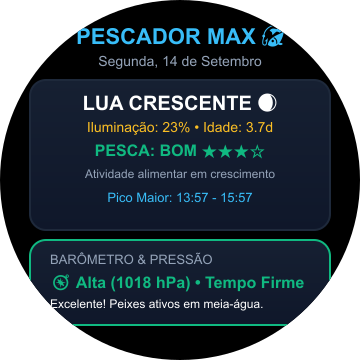
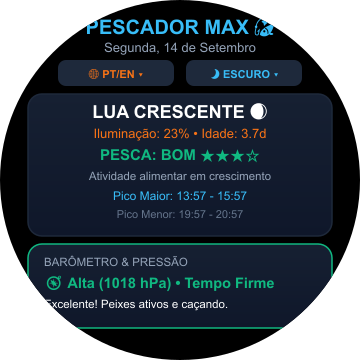
feat: regenerar todas as 16 capturas de tela com a nova aparencia Dark Mode e paleta coral/azul

Changed region(s): [[0.0611, 0.0306, 0.9472, 0.8556], [0.2139, 0.8861, 0.7944, 0.9167], [0.9167, 0.7028, 0.9472, 0.7639]]

diff --git a/.scripts/generate_en_screenshots.js b/.scripts/generate_en_screenshots.js
@@ -29,22 +29,29 @@ const svgRound1 = `
   </defs>
   <g clip-path="url(#cClip1)">
     <rect width="360" height="360" fill="#000000" />
-    <text x="180" y="44" fill="#38bdf8" font-size="22" font-family="Arial, sans-serif" font-weight="bold" text-anchor="middle">ANGLER MAX 🎣</text>
-    <text x="180" y="66" fill="#94a3b8" font-size="14" font-family="Arial, sans-serif" text-anchor="middle">Monday, September 14</text>
+    <text x="180" y="34" fill="#38bdf8" font-size="20" font-family="Arial, sans-serif" font-weight="bold" text-anchor="middle">ANGLER MAX 🎣</text>
+    <text x="180" y="52" fill="#94a3b8" font-size="13" font-family="Arial, sans-serif" text-anchor="middle">Monday, September 14</text>
+
+    <!-- Language and Dark Mode buttons -->
+    <rect x="58" y="60" width="116" height="26" rx="8" fill="#1e293b" />
+    <text x="116" y="78" fill="#f97316" font-size="11" font-family="Arial, sans-serif" font-weight="bold" text-anchor="middle">🌐 PT/EN ▾</text>
+    <rect x="186" y="60" width="116" height="26" rx="8" fill="#1e293b" />
+    <text x="244" y="78" fill="#38bdf8" font-size="11" font-family="Arial, sans-serif" font-weight="bold" text-anchor="middle">🌙 DARK ▾</text>
 
     <!-- Card 1: Lunar & Solunar -->
-    <rect x="30" y="80" width="300" height="150" rx="16" fill="url(#gCard)" stroke="#1e293b" stroke-width="2" />
-    <text x="180" y="110" fill="#ffffff" font-size="20" font-family="Arial, sans-serif" font-weight="bold" text-anchor="middle">WAXING CRESCENT 🌒</text>
-    <text x="180" y="132" fill="#fbbf24" font-size="14" font-family="Arial, sans-serif" text-anchor="middle">Illumination: 23% • Age: 3.7d</text>
-    <text x="180" y="156" fill="#10b981" font-size="16" font-family="Arial, sans-serif" font-weight="bold" text-anchor="middle">FISHING: GOOD ★★★☆</text>
-    <text x="180" y="178" fill="#94a3b8" font-size="12" font-family="Arial, sans-serif" text-anchor="middle">Feeding activity rising for active fish</text>
-    <text x="180" y="202" fill="#38bdf8" font-size="13" font-family="Arial, sans-serif" text-anchor="middle">Major Peak: 01:57 PM - 03:57 PM</text>
+    <rect x="28" y="94" width="304" height="142" rx="14" fill="url(#gCard)" stroke="#1e293b" stroke-width="1.5" />
+    <text x="180" y="118" fill="#ffffff" font-size="18" font-family="Arial, sans-serif" font-weight="bold" text-anchor="middle">WAXING CRESCENT 🌒</text>
+    <text x="180" y="138" fill="#f97316" font-size="13" font-family="Arial, sans-serif" text-anchor="middle">Illumination: 23% • Age: 3.7d</text>
+    <text x="180" y="160" fill="#10b981" font-size="15" font-family="Arial, sans-serif" font-weight="bold" text-anchor="middle">FISHING: GOOD ★★★☆</text>
+    <text x="180" y="180" fill="#94a3b8" font-size="11.5" font-family="Arial, sans-serif" text-anchor="middle">Feeding activity rising for active fish</text>
+    <text x="180" y="200" fill="#38bdf8" font-size="12" font-family="Arial, sans-serif" text-anchor="middle">Major Peak: 01:57 PM - 03:57 PM</text>
+    <text x="180" y="218" fill="#64748b" font-size="11" font-family="Arial, sans-serif" text-anchor="middle">Minor Peak: 07:57 PM - 08:57 PM</text>
 
     <!-- Card 2: Barometer -->
-    <rect x="30" y="240" width="300" height="85" rx="16" fill="url(#gCard)" stroke="#10b981" stroke-width="2" />
-    <text x="50" y="264" fill="#94a3b8" font-size="13" font-family="Arial, sans-serif">BAROMETER &amp; PRESSURE</text>
-    <text x="50" y="288" fill="#10b981" font-size="16" font-family="Arial, sans-serif" font-weight="bold">🧭 High (1018 hPa) • Fair Weather</text>
-    <text x="50" y="308" fill="#ffffff" font-size="12" font-family="Arial, sans-serif">Excellent! Fish actively feeding near surface.</text>
+    <rect x="28" y="244" width="304" height="84" rx="14" fill="url(#gCard)" stroke="#10b981" stroke-width="1.5" />
+    <text x="44" y="266" fill="#94a3b8" font-size="11.5" font-family="Arial, sans-serif">BAROMETER &amp; PRESSURE</text>
+    <text x="44" y="288" fill="#10b981" font-size="14.5" font-family="Arial, sans-serif" font-weight="bold">🧭 High (1018 hPa) • Fair Weather</text>
+    <text x="44" y="308" fill="#ffffff" font-size="11.5" font-family="Arial, sans-serif">Excellent! Fish actively feeding near surface.</text>
   </g>
 </svg>
 `;
@@ -62,19 +69,19 @@ const svgRound2 = `
     <!-- Day 1 -->
     <rect x="30" y="68" width="300" height="78" rx="14" fill="#162438" stroke="#38bdf8" stroke-width="2" />
     <text x="45" y="90" fill="#38bdf8" font-size="15" font-family="Arial, sans-serif" font-weight="bold">Mon, Sep 14 [TODAY]</text>
-    <text x="45" y="110" fill="#fbbf24" font-size="13" font-family="Arial, sans-serif">Crescent (23%) • Fishing: GOOD ★★★☆</text>
+    <text x="45" y="110" fill="#f97316" font-size="13" font-family="Arial, sans-serif">Crescent (23%) • Fishing: GOOD ★★★☆</text>
     <text x="45" y="130" fill="#94a3b8" font-size="12" font-family="Arial, sans-serif">Major Peak: 01:57 PM - 03:57 PM</text>
 
     <!-- Day 2 -->
     <rect x="30" y="156" width="300" height="78" rx="14" fill="#0f172a" stroke="#1e293b" stroke-width="2" />
     <text x="45" y="178" fill="#ffffff" font-size="15" font-family="Arial, sans-serif" font-weight="bold">Tue, Sep 15</text>
-    <text x="45" y="198" fill="#fbbf24" font-size="13" font-family="Arial, sans-serif">Crescent (32%) • Fishing: GOOD ★★★☆</text>
+    <text x="45" y="198" fill="#f97316" font-size="13" font-family="Arial, sans-serif">Crescent (32%) • Fishing: GOOD ★★★☆</text>
     <text x="45" y="218" fill="#94a3b8" font-size="12" font-family="Arial, sans-serif">Major Peak: 02:45 PM - 04:45 PM</text>
 
     <!-- Day 3 -->
     <rect x="30" y="244" width="300" height="78" rx="14" fill="#0f172a" stroke="#1e293b" stroke-width="2" />
     <text x="45" y="266" fill="#ffffff" font-size="15" font-family="Arial, sans-serif" font-weight="bold">Wed, Sep 16</text>
-    <text x="45" y="286" fill="#fbbf24" font-size="13" font-family="Arial, sans-serif">First Quarter (42%) • Fishing: FAIR ★★☆☆</text>
+    <text x="45" y="286" fill="#f97316" font-size="13" font-family="Arial, sans-serif">First Quarter (42%) • Fishing: FAIR ★★☆☆</text>
     <text x="45" y="306" fill="#94a3b8" font-size="12" font-family="Arial, sans-serif">Major Peak: 03:30 PM - 05:30 PM</text>
   </g>
 </svg>
@@ -102,7 +109,7 @@ const svgRound3 = `
 
     <!-- Protected Species -->
     <rect x="30" y="226" width="300" height="85" rx="14" fill="#0f172a" stroke="#1e293b" stroke-width="2" />
-    <text x="45" y="248" fill="#fbbf24" font-size="14" font-family="Arial, sans-serif" font-weight="bold">🐟 PROTECTED SPECIES</text>
+    <text x="45" y="248" fill="#f97316" font-size="14" font-family="Arial, sans-serif" font-weight="bold">🐟 PROTECTED SPECIES</text>
     <text x="45" y="272" fill="#94a3b8" font-size="12" font-family="Arial, sans-serif">Golden Dorado, Sorubim Catfish, Jau, Pacu</text>
     <text x="45" y="292" fill="#38bdf8" font-size="12" font-family="Arial, sans-serif">Catch-and-release open for bass in reservoirs.</text>
   </g>
@@ -149,24 +156,30 @@ const svgRound4 = `
 const svgSquare1 = `
 <svg width="360" height="360" viewBox="0 0 360 360" xmlns="http://www.w3.org/2000/svg">
   <rect width="360" height="360" rx="16" fill="#000000" />
-  <text x="180" y="32" fill="#38bdf8" font-size="20" font-family="Arial, sans-serif" font-weight="bold" text-anchor="middle">ANGLER MAX 🎣</text>
-  <text x="180" y="52" fill="#94a3b8" font-size="13" font-family="Arial, sans-serif" text-anchor="middle">Monday, September 14</text>
+  <text x="180" y="30" fill="#38bdf8" font-size="20" font-family="Arial, sans-serif" font-weight="bold" text-anchor="middle">ANGLER MAX 🎣</text>
+  <text x="180" y="48" fill="#94a3b8" font-size="12.5" font-family="Arial, sans-serif" text-anchor="middle">Monday, September 14</text>
+
+  <!-- Language and Dark Mode buttons -->
+  <rect x="52" y="56" width="122" height="26" rx="8" fill="#1e293b" />
+  <text x="113" y="74" fill="#f97316" font-size="11" font-family="Arial, sans-serif" font-weight="bold" text-anchor="middle">🌐 PT/EN ▾</text>
+  <rect x="186" y="56" width="122" height="26" rx="8" fill="#1e293b" />
+  <text x="247" y="74" fill="#38bdf8" font-size="11" font-family="Arial, sans-serif" font-weight="bold" text-anchor="middle">🌙 DARK ▾</text>
 
   <!-- Lunar Card -->
-  <rect x="14" y="62" width="332" height="175" rx="14" fill="#162032" stroke="#1e293b" stroke-width="2" />
-  <text x="180" y="90" fill="#ffffff" font-size="20" font-family="Arial, sans-serif" font-weight="bold" text-anchor="middle">WAXING CRESCENT 🌒</text>
-  <text x="180" y="112" fill="#fbbf24" font-size="14" font-family="Arial, sans-serif" text-anchor="middle">Illumination: 23% • Age: 3.7d</text>
-  <text x="180" y="136" fill="#10b981" font-size="16" font-family="Arial, sans-serif" font-weight="bold" text-anchor="middle">FISHING: GOOD ★★★☆</text>
-  <text x="180" y="158" fill="#94a3b8" font-size="12" font-family="Arial, sans-serif" text-anchor="middle">Feeding activity rising for active game fish</text>
-  <text x="180" y="180" fill="#38bdf8" font-size="13" font-family="Arial, sans-serif" text-anchor="middle">Major Peak: 01:57 PM - 03:57 PM</text>
-  <text x="180" y="200" fill="#64748b" font-size="12" font-family="Arial, sans-serif" text-anchor="middle">Minor Peak: 07:57 PM - 08:57 PM</text>
+  <rect x="14" y="90" width="332" height="152" rx="14" fill="#162032" stroke="#1e293b" stroke-width="1.5" />
+  <text x="180" y="116" fill="#ffffff" font-size="19" font-family="Arial, sans-serif" font-weight="bold" text-anchor="middle">WAXING CRESCENT 🌒</text>
+  <text x="180" y="136" fill="#f97316" font-size="13" font-family="Arial, sans-serif" text-anchor="middle">Illumination: 23% • Age: 3.7d</text>
+  <text x="180" y="158" fill="#10b981" font-size="15" font-family="Arial, sans-serif" font-weight="bold" text-anchor="middle">FISHING: GOOD ★★★☆</text>
+  <text x="180" y="178" fill="#94a3b8" font-size="11.5" font-family="Arial, sans-serif" text-anchor="middle">Feeding activity rising for active game fish</text>
+  <text x="180" y="198" fill="#38bdf8" font-size="12.5" font-family="Arial, sans-serif" text-anchor="middle">Major Peak: 01:57 PM - 03:57 PM</text>
+  <text x="180" y="216" fill="#64748b" font-size="11.5" font-family="Arial, sans-serif" text-anchor="middle">Minor Peak: 07:57 PM - 08:57 PM</text>
 
   <!-- Barometer Card -->
-  <rect x="14" y="246" width="332" height="100" rx="14" fill="#162032" stroke="#10b981" stroke-width="2" />
-  <text x="30" y="270" fill="#94a3b8" font-size="12" font-family="Arial, sans-serif">BAROMETER &amp; PRESSURE</text>
-  <text x="30" y="294" fill="#10b981" font-size="16" font-family="Arial, sans-serif" font-weight="bold">🧭 High (1018 hPa) • Fair Weather</text>
-  <text x="30" y="316" fill="#ffffff" font-size="12" font-family="Arial, sans-serif">Excellent! Fish actively feeding near surface and mid-water.</text>
-  <text x="30" y="334" fill="#94a3b8" font-size="11" font-family="Arial, sans-serif">Tip: Great for topwater lures, poppers and jerkbaits.</text>
+  <rect x="14" y="250" width="332" height="96" rx="14" fill="#162032" stroke="#10b981" stroke-width="1.5" />
+  <text x="28" y="272" fill="#94a3b8" font-size="11.5" font-family="Arial, sans-serif">BAROMETER &amp; PRESSURE</text>
+  <text x="28" y="294" fill="#10b981" font-size="15" font-family="Arial, sans-serif" font-weight="bold">🧭 High (1018 hPa) • Fair Weather</text>
+  <text x="28" y="314" fill="#ffffff" font-size="11.5" font-family="Arial, sans-serif">Excellent! Fish actively feeding near surface and mid-water.</text>
+  <text x="28" y="332" fill="#94a3b8" font-size="11" font-family="Arial, sans-serif">Tip: Great for topwater lures, poppers and jerkbaits.</text>
 </svg>
 `;
 
@@ -181,21 +194,21 @@ const svgSquare2 = `
   <!-- Day 1 -->
   <rect x="14" y="52" width="332" height="90" rx="12" fill="#162438" stroke="#38bdf8" stroke-width="2" />
   <text x="28" y="74" fill="#38bdf8" font-size="15" font-family="Arial, sans-serif" font-weight="bold">Monday, Sep 14 [TODAY]</text>
-  <text x="28" y="96" fill="#fbbf24" font-size="13" font-family="Arial, sans-serif">Waxing Crescent • 23% Illumination</text>
+  <text x="28" y="96" fill="#f97316" font-size="13" font-family="Arial, sans-serif">Waxing Crescent • 23% Illumination</text>
   <text x="28" y="116" fill="#10b981" font-size="13" font-family="Arial, sans-serif" font-weight="bold">Fishing: GOOD ★★★☆</text>
   <text x="28" y="134" fill="#94a3b8" font-size="12" font-family="Arial, sans-serif">Major: 01:57 PM - 03:57 PM | Minor: 07:57 PM - 08:57 PM</text>
 
   <!-- Day 2 -->
   <rect x="14" y="152" width="332" height="90" rx="12" fill="#0f172a" stroke="#1e293b" stroke-width="2" />
   <text x="28" y="174" fill="#ffffff" font-size="15" font-family="Arial, sans-serif" font-weight="bold">Tuesday, Sep 15</text>
-  <text x="28" y="196" fill="#fbbf24" font-size="13" font-family="Arial, sans-serif">Waxing Crescent • 32% Illumination</text>
+  <text x="28" y="196" fill="#f97316" font-size="13" font-family="Arial, sans-serif">Waxing Crescent • 32% Illumination</text>
   <text x="28" y="216" fill="#10b981" font-size="13" font-family="Arial, sans-serif" font-weight="bold">Fishing: GOOD ★★★☆</text>
   <text x="28" y="234" fill="#94a3b8" font-size="12" font-family="Arial, sans-serif">Major: 02:45 PM - 04:45 PM | Minor: 08:45 PM - 09:45 PM</text>
 
   <!-- Day 3 -->
   <rect x="14" y="252" width="332" height="90" rx="12" fill="#0f172a" stroke="#1e293b" stroke-width="2" />
   <text x="28" y="274" fill="#ffffff" font-size="15" font-family="Arial, sans-serif" font-weight="bold">Wednesday, Sep 16</text>
-  <text x="28" y="296" fill="#fbbf24" font-size="13" font-family="Arial, sans-serif">First Quarter • 42% Illumination</text>
+  <text x="28" y="296" fill="#f97316" font-size="13" font-family="Arial, sans-serif">First Quarter • 42% Illumination</text>
   <text x="28" y="316" fill="#f59e0b" font-size="13" font-family="Arial, sans-serif" font-weight="bold">Fishing: FAIR ★★☆☆</text>
   <text x="28" y="334" fill="#94a3b8" font-size="12" font-family="Arial, sans-serif">Major: 03:30 PM - 05:30 PM | Minor: 09:30 PM - 10:30 PM</text>
 </svg>
@@ -219,7 +232,7 @@ const svgSquare3 = `
   <text x="28" y="190" fill="#64748b" font-size="11" font-family="Arial, sans-serif">Paraná, Tietê, Paranapanema and Grande rivers</text>
 
   <rect x="14" y="210" width="332" height="135" rx="12" fill="#0f172a" stroke="#1e293b" stroke-width="2" />
-  <text x="28" y="234" fill="#fbbf24" font-size="14" font-family="Arial, sans-serif" font-weight="bold">🐟 PROTECTED NATIVE SPECIES</text>
+  <text x="28" y="234" fill="#f97316" font-size="14" font-family="Arial, sans-serif" font-weight="bold">🐟 PROTECTED NATIVE SPECIES</text>
   <text x="28" y="258" fill="#ffffff" font-size="12" font-family="Arial, sans-serif">Golden Dorado, Sorubim Catfish, Jau, Curimbata, Pacu</text>
   <text x="28" y="282" fill="#10b981" font-size="12" font-family="Arial, sans-serif">✔ Sport catch-and-release allowed for bass in reservoirs.</text>
   <text x="28" y="304" fill="#ef4444" font-size="11" font-family="Arial, sans-serif">✖ Commercial nets, trotlines and dam fishing strictly prohibited.</text>
@@ -250,7 +263,7 @@ const svgSquare4 = `
   <text x="28" y="214" fill="#38bdf8" font-size="15" font-family="Arial, sans-serif" font-weight="bold">BAIT GUIDE BY SPOT</text>
   
   <rect x="14" y="226" width="332" height="118" rx="12" fill="#0f172a" stroke="#1e293b" stroke-width="2" />
-  <text x="28" y="250" fill="#fbbf24" font-size="14" font-family="Arial, sans-serif" font-weight="bold">🎣 Lakes &amp; Reservoirs</text>
+  <text x="28" y="250" fill="#f97316" font-size="14" font-family="Arial, sans-serif" font-weight="bold">🎣 Lakes &amp; Reservoirs</text>
   <text x="28" y="272" fill="#ffffff" font-size="12" font-family="Arial, sans-serif">Target: Bass, Peacock Bass, Tilapia, Pike</text>
   <text x="28" y="294" fill="#38bdf8" font-size="12" font-family="Arial, sans-serif">Baits: Topwater (Zara/Popper), Jerkbaits, Soft Plastics</text>
   <text x="28" y="316" fill="#94a3b8" font-size="11" font-family="Arial, sans-serif">Tip: Cast near sunken timber, weed lines and drop-offs.</text>

diff --git a/.scripts/generate_screenshots.js b/.scripts/generate_screenshots.js
@@ -36,23 +36,30 @@ const svgScreen1 = `
     <rect width="360" height="360" fill="#000000" />
 
     <!-- Título -->
-    <text x="180" y="44" fill="#38bdf8" font-size="22" font-family="Arial, sans-serif" font-weight="bold" text-anchor="middle">PESCADOR MAX 🎣</text>
-    <text x="180" y="66" fill="#94a3b8" font-size="14" font-family="Arial, sans-serif" text-anchor="middle">Segunda, 14 de Setembro</text>
+    <text x="180" y="34" fill="#38bdf8" font-size="20" font-family="Arial, sans-serif" font-weight="bold" text-anchor="middle">PESCADOR MAX 🎣</text>
+    <text x="180" y="52" fill="#94a3b8" font-size="13" font-family="Arial, sans-serif" text-anchor="middle">Segunda, 14 de Setembro</text>
+
+    <!-- Seletor de Idioma e Modo Escuro -->
+    <rect x="58" y="60" width="116" height="26" rx="8" fill="#1e293b" />
+    <text x="116" y="78" fill="#f97316" font-size="11" font-family="Arial, sans-serif" font-weight="bold" text-anchor="middle">🌐 PT/EN ▾</text>
+    <rect x="186" y="60" width="116" height="26" rx="8" fill="#1e293b" />
+    <text x="244" y="78" fill="#38bdf8" font-size="11" font-family="Arial, sans-serif" font-weight="bold" text-anchor="middle">🌙 ESCURO ▾</text>
 
     <!-- Cartão Lua e Solunar -->
-    <rect x="30" y="80" width="300" height="150" rx="16" fill="url(#cardGrad)" stroke="#1e293b" stroke-width="2" />
+    <rect x="28" y="94" width="304" height="142" rx="14" fill="url(#cardGrad)" stroke="#1e293b" stroke-width="1.5" />
     
-    <text x="180" y="110" fill="#ffffff" font-size="20" font-family="Arial, sans-serif" font-weight="bold" text-anchor="middle">LUA CRESCENTE 🌒</text>
-    <text x="180" y="132" fill="#fbbf24" font-size="14" font-family="Arial, sans-serif" text-anchor="middle">Iluminação: 23% • Idade: 3.7d</text>
-    <text x="180" y="156" fill="#10b981" font-size="16" font-family="Arial, sans-serif" font-weight="bold" text-anchor="middle">PESCA: BOM ★★★☆</text>
-    <text x="180" y="178" fill="#94a3b8" font-size="12" font-family="Arial, sans-serif" text-anchor="middle">Atividade alimentar em crescimento</text>
-    <text x="180" y="202" fill="#38bdf8" font-size="13" font-family="Arial, sans-serif" text-anchor="middle">Pico Maior: 13:57 - 15:57</text>
+    <text x="180" y="118" fill="#ffffff" font-size="18" font-family="Arial, sans-serif" font-weight="bold" text-anchor="middle">LUA CRESCENTE 🌒</text>
+    <text x="180" y="138" fill="#f97316" font-size="13" font-family="Arial, sans-serif" text-anchor="middle">Iluminação: 23% • Idade: 3.7d</text>
+    <text x="180" y="160" fill="#10b981" font-size="15" font-family="Arial, sans-serif" font-weight="bold" text-anchor="middle">PESCA: BOM ★★★☆</text>
+    <text x="180" y="180" fill="#94a3b8" font-size="11.5" font-family="Arial, sans-serif" text-anchor="middle">Atividade alimentar em crescimento</text>
+    <text x="180" y="200" fill="#38bdf8" font-size="12" font-family="Arial, sans-serif" text-anchor="middle">Pico Maior: 13:57 - 15:57</text>
+    <text x="180" y="218" fill="#64748b" font-size="11" font-family="Arial, sans-serif" text-anchor="middle">Pico Menor: 19:57 - 20:57</text>
 
     <!-- Cartão Barômetro -->
-    <rect x="30" y="240" width="300" height="85" rx="16" fill="url(#cardGrad)" stroke="#10b981" stroke-width="2" />
-    <text x="50" y="264" fill="#94a3b8" font-size="13" font-family="Arial, sans-serif">BARÔMETRO &amp; PRESSÃO</text>
-    <text x="50" y="288" fill="#10b981" font-size="16" font-family="Arial, sans-serif" font-weight="bold">🧭 Alta (1018 hPa) • Tempo Firme</text>
-    <text x="50" y="308" fill="#ffffff" font-size="12" font-family="Arial, sans-serif">Excelente! Peixes ativos em meia-água.</text>
+    <rect x="28" y="244" width="304" height="84" rx="14" fill="url(#cardGrad)" stroke="#10b981" stroke-width="1.5" />
+    <text x="44" y="266" fill="#94a3b8" font-size="11.5" font-family="Arial, sans-serif">BARÔMETRO &amp; PRESSÃO</text>
+    <text x="44" y="288" fill="#10b981" font-size="14.5" font-family="Arial, sans-serif" font-weight="bold">🧭 Alta (1018 hPa) • Tempo Firme</text>
+    <text x="44" y="308" fill="#ffffff" font-size="11.5" font-family="Arial, sans-serif">Excelente! Peixes ativos e caçando.</text>
   </g>
 </svg>
 `;
@@ -77,19 +84,19 @@ const svgScreen2 = `
     <!-- Dia 1: Hoje -->
     <rect x="30" y="68" width="300" height="78" rx="14" fill="#162438" stroke="#38bdf8" stroke-width="2" />
     <text x="45" y="90" fill="#38bdf8" font-size="15" font-family="Arial, sans-serif" font-weight="bold">Seg, 14/09 [HOJE]</text>
-    <text x="45" y="110" fill="#fbbf24" font-size="13" font-family="Arial, sans-serif">Crescente (23%) • Pesca: BOM ★★★☆</text>
+    <text x="45" y="110" fill="#f97316" font-size="13" font-family="Arial, sans-serif">Crescente (23%) • Pesca: BOM ★★★☆</text>
     <text x="45" y="130" fill="#94a3b8" font-size="12" font-family="Arial, sans-serif">Pico Maior: 13:57 - 15:57</text>
 
     <!-- Dia 2 -->
     <rect x="30" y="156" width="300" height="78" rx="14" fill="#0f172a" stroke="#1e293b" stroke-width="2" />
     <text x="45" y="178" fill="#ffffff" font-size="15" font-family="Arial, sans-serif" font-weight="bold">Ter, 15/09</text>
-    <text x="45" y="198" fill="#fbbf24" font-size="13" font-family="Arial, sans-serif">Crescente (32%) • Pesca: BOM ★★★☆</text>
+    <text x="45" y="198" fill="#f97316" font-size="13" font-family="Arial, sans-serif">Crescente (32%) • Pesca: BOM ★★★☆</text>
     <text x="45" y="218" fill="#94a3b8" font-size="12" font-family="Arial, sans-serif">Pico Maior: 14:45 - 16:45</text>
 
     <!-- Dia 3 -->
     <rect x="30" y="244" width="300" height="78" rx="14" fill="#0f172a" stroke="#1e293b" stroke-width="2" />
     <text x="45" y="266" fill="#ffffff" font-size="15" font-family="Arial, sans-serif" font-weight="bold">Qua, 16/09</text>
-    <text x="45" y="286" fill="#fbbf24" font-size="13" font-family="Arial, sans-serif">Quarto Crescente (42%) • Pesca: REGULAR</text>
+    <text x="45" y="286" fill="#f97316" font-size="13" font-family="Arial, sans-serif">Quarto Crescente (42%) • Pesca: REGULAR</text>
     <text x="45" y="306" fill="#94a3b8" font-size="12" font-family="Arial, sans-serif">Pico Maior: 15:30 - 17:30</text>
   </g>
 </svg>
@@ -124,7 +131,7 @@ const svgScreen3 = `
 
     <!-- Cartão Espécies Protegidas -->
     <rect x="30" y="226" width="300" height="85" rx="14" fill="#0f172a" stroke="#1e293b" stroke-width="2" />
-    <text x="45" y="248" fill="#fbbf24" font-size="14" font-family="Arial, sans-serif" font-weight="bold">🐟 ESPÉCIES PROTEGIDAS</text>
+    <text x="45" y="248" fill="#f97316" font-size="14" font-family="Arial, sans-serif" font-weight="bold">🐟 ESPÉCIES PROTEGIDAS</text>
     <text x="45" y="272" fill="#94a3b8" font-size="12" font-family="Arial, sans-serif">Dourado, Pintado, Jaú, Curimbatá, Piapara, Pacu</text>
     <text x="45" y="292" fill="#38bdf8" font-size="12" font-family="Arial, sans-serif">Pesque-e-solte de tucunaré liberado em represas.</text>
   </g>

diff --git a/.scripts/generate_square_screenshots.js b/.scripts/generate_square_screenshots.js
@@ -25,25 +25,31 @@ const svgSquare1 = `
   <rect width="360" height="360" rx="16" fill="#000000" />
 
   <!-- Título -->
-  <text x="180" y="32" fill="#38bdf8" font-size="20" font-family="Arial, sans-serif" font-weight="bold" text-anchor="middle">PESCADOR MAX 🎣</text>
-  <text x="180" y="52" fill="#94a3b8" font-size="13" font-family="Arial, sans-serif" text-anchor="middle">Segunda, 14 de Setembro</text>
+  <text x="180" y="30" fill="#38bdf8" font-size="20" font-family="Arial, sans-serif" font-weight="bold" text-anchor="middle">PESCADOR MAX 🎣</text>
+  <text x="180" y="48" fill="#94a3b8" font-size="12.5" font-family="Arial, sans-serif" text-anchor="middle">Segunda, 14 de Setembro</text>
+
+  <!-- Seletor de Idioma e Modo Escuro -->
+  <rect x="52" y="56" width="122" height="26" rx="8" fill="#1e293b" />
+  <text x="113" y="74" fill="#f97316" font-size="11" font-family="Arial, sans-serif" font-weight="bold" text-anchor="middle">🌐 PT/EN ▾</text>
+  <rect x="186" y="56" width="122" height="26" rx="8" fill="#1e293b" />
+  <text x="247" y="74" fill="#38bdf8" font-size="11" font-family="Arial, sans-serif" font-weight="bold" text-anchor="middle">🌙 ESCURO ▾</text>
 
   <!-- Cartão Lua e Solunar -->
-  <rect x="14" y="62" width="332" height="175" rx="14" fill="url(#cardGradSq)" stroke="#1e293b" stroke-width="2" />
+  <rect x="14" y="90" width="332" height="152" rx="14" fill="url(#cardGradSq)" stroke="#1e293b" stroke-width="1.5" />
   
-  <text x="180" y="90" fill="#ffffff" font-size="20" font-family="Arial, sans-serif" font-weight="bold" text-anchor="middle">LUA CRESCENTE 🌒</text>
-  <text x="180" y="112" fill="#fbbf24" font-size="14" font-family="Arial, sans-serif" text-anchor="middle">Iluminação: 23% • Idade: 3.7d</text>
-  <text x="180" y="136" fill="#10b981" font-size="16" font-family="Arial, sans-serif" font-weight="bold" text-anchor="middle">PESCA: BOM ★★★☆</text>
-  <text x="180" y="158" fill="#94a3b8" font-size="12" font-family="Arial, sans-serif" text-anchor="middle">Atividade alimentar em crescimento para peixes</text>
-  <text x="180" y="180" fill="#38bdf8" font-size="13" font-family="Arial, sans-serif" text-anchor="middle">Pico Maior: 13:57 - 15:57</text>
-  <text x="180" y="200" fill="#64748b" font-size="12" font-family="Arial, sans-serif" text-anchor="middle">Pico Menor: 19:57 - 20:57</text>
+  <text x="180" y="116" fill="#ffffff" font-size="19" font-family="Arial, sans-serif" font-weight="bold" text-anchor="middle">LUA CRESCENTE 🌒</text>
+  <text x="180" y="136" fill="#f97316" font-size="13" font-family="Arial, sans-serif" text-anchor="middle">Iluminação: 23% • Idade: 3.7d</text>
+  <text x="180" y="158" fill="#10b981" font-size="15" font-family="Arial, sans-serif" font-weight="bold" text-anchor="middle">PESCA: BOM ★★★☆</text>
+  <text x="180" y="178" fill="#94a3b8" font-size="11.5" font-family="Arial, sans-serif" text-anchor="middle">Atividade alimentar em crescimento para peixes</text>
+  <text x="180" y="198" fill="#38bdf8" font-size="12.5" font-family="Arial, sans-serif" text-anchor="middle">Pico Maior: 13:57 - 15:57</text>
+  <text x="180" y="216" fill="#64748b" font-size="11.5" font-family="Arial, sans-serif" text-anchor="middle">Pico Menor: 19:57 - 20:57</text>
 
   <!-- Cartão Barômetro -->
-  <rect x="14" y="246" width="332" height="100" rx="14" fill="url(#cardGradSq)" stroke="#10b981" stroke-width="2" />
-  <text x="30" y="270" fill="#94a3b8" font-size="12" font-family="Arial, sans-serif">BARÔMETRO &amp; PRESSÃO</text>
-  <text x="30" y="294" fill="#10b981" font-size="16" font-family="Arial, sans-serif" font-weight="bold">🧭 Alta (1018 hPa) • Tempo Firme</text>
-  <text x="30" y="316" fill="#ffffff" font-size="12" font-family="Arial, sans-serif">Excelente! Peixes ativos em meia-água e superfície.</text>
-  <text x="30" y="334" fill="#94a3b8" font-size="11" font-family="Arial, sans-serif">Dica: Use iscas de superfície (Zaras/Poppers).</text>
+  <rect x="14" y="250" width="332" height="96" rx="14" fill="url(#cardGradSq)" stroke="#10b981" stroke-width="1.5" />
+  <text x="28" y="272" fill="#94a3b8" font-size="11.5" font-family="Arial, sans-serif">BARÔMETRO &amp; PRESSÃO EM TEMPO REAL</text>
+  <text x="28" y="294" fill="#10b981" font-size="15" font-family="Arial, sans-serif" font-weight="bold">🧭 Alta (1018 hPa) • Tempo Firme</text>
+  <text x="28" y="314" fill="#ffffff" font-size="11.5" font-family="Arial, sans-serif">Excelente! Peixes ativos em meia-água e superfície.</text>
+  <text x="28" y="332" fill="#94a3b8" font-size="11" font-family="Arial, sans-serif">Dica: Use iscas de superfície (Zaras/Poppers).</text>
 </svg>
 `;
 
@@ -70,7 +76,7 @@ const svgSquare2 = `
 
   <!-- Cartão Espécies Protegidas -->
   <rect x="14" y="210" width="332" height="135" rx="12" fill="#0f172a" stroke="#1e293b" stroke-width="2" />
-  <text x="28" y="234" fill="#fbbf24" font-size="14" font-family="Arial, sans-serif" font-weight="bold">🐟 ESPÉCIES NATIVAS PROTEGIDAS</text>
+  <text x="28" y="234" fill="#f97316" font-size="14" font-family="Arial, sans-serif" font-weight="bold">🐟 ESPÉCIES NATIVAS PROTEGIDAS</text>
   <text x="28" y="258" fill="#ffffff" font-size="12" font-family="Arial, sans-serif">Dourado, Pintado, Jaú, Curimbatá, Piapara, Pacu</text>
   <text x="28" y="282" fill="#10b981" font-size="12" font-family="Arial, sans-serif">✔ Pesque-e-solte de tucunaré/tilápia liberado em represas.</text>
   <text x="28" y="304" fill="#ef4444" font-size="11" font-family="Arial, sans-serif">✖ Proibido redes, tarrafas e pescaria a 1500m de barragens.</text>
@@ -105,7 +111,7 @@ const svgSquare3 = `
   <text x="28" y="214" fill="#38bdf8" font-size="15" font-family="Arial, sans-serif" font-weight="bold">GUIA DE ISCAS POR LOCAL</text>
   
   <rect x="14" y="226" width="332" height="118" rx="12" fill="#0f172a" stroke="#1e293b" stroke-width="2" />
-  <text x="28" y="250" fill="#fbbf24" font-size="14" font-family="Arial, sans-serif" font-weight="bold">🎣 Represas &amp; Lagos</text>
+  <text x="28" y="250" fill="#f97316" font-size="14" font-family="Arial, sans-serif" font-weight="bold">🎣 Represas &amp; Lagos</text>
   <text x="28" y="272" fill="#ffffff" font-size="12" font-family="Arial, sans-serif">Peixes: Tucunaré, Tilápia, Traíra, Black Bass</text>
   <text x="28" y="294" fill="#38bdf8" font-size="12" font-family="Arial, sans-serif">Iscas: Superfície (Zara/Popper), Meia-água, Softs</text>
   <text x="28" y="316" fill="#94a3b8" font-size="11" font-family="Arial, sans-serif">Dica: Procure troncos submersos e pontas de ilhas.</text>

diff --git a/.scripts/generate_square_forecast.js b/.scripts/generate_square_forecast.js
@@ -22,33 +22,33 @@ const svgSquareForecast = `
   <!-- Dia 1: Hoje -->
   <rect x="14" y="52" width="332" height="90" rx="12" fill="#162438" stroke="#38bdf8" stroke-width="2" />
   <text x="28" y="74" fill="#38bdf8" font-size="15" font-family="Arial, sans-serif" font-weight="bold">Segunda, 14/09 [HOJE]</text>
-  <text x="28" y="96" fill="#fbbf24" font-size="13" font-family="Arial, sans-serif">Crescente Côncava • 23% Iluminação</text>
+  <text x="28" y="96" fill="#f97316" font-size="13" font-family="Arial, sans-serif">Crescente Côncava • 23% Iluminação</text>
   <text x="28" y="116" fill="#10b981" font-size="13" font-family="Arial, sans-serif" font-weight="bold">Pesca: BOM ★★★☆</text>
   <text x="28" y="134" fill="#94a3b8" font-size="12" font-family="Arial, sans-serif">Pico Maior: 13:57 - 15:57 | Menor: 19:57 - 20:57</text>
 
   <!-- Dia 2: Amanhã -->
   <rect x="14" y="152" width="332" height="90" rx="12" fill="#0f172a" stroke="#1e293b" stroke-width="2" />
   <text x="28" y="174" fill="#ffffff" font-size="15" font-family="Arial, sans-serif" font-weight="bold">Terça, 15/09</text>
-  <text x="28" y="196" fill="#fbbf24" font-size="13" font-family="Arial, sans-serif">Crescente Côncava • 32% Iluminação</text>
+  <text x="28" y="196" fill="#f97316" font-size="13" font-family="Arial, sans-serif">Crescente Côncava • 32% Iluminação</text>
   <text x="28" y="216" fill="#10b981" font-size="13" font-family="Arial, sans-serif" font-weight="bold">Pesca: BOM ★★★☆</text>
   <text x="28" y="234" fill="#94a3b8" font-size="12" font-family="Arial, sans-serif">Pico Maior: 14:45 - 16:45 | Menor: 20:45 - 21:45</text>
 
   <!-- Dia 3 -->
   <rect x="14" y="252" width="332" height="90" rx="12" fill="#0f172a" stroke="#1e293b" stroke-width="2" />
   <text x="28" y="274" fill="#ffffff" font-size="15" font-family="Arial, sans-serif" font-weight="bold">Quarta, 16/09</text>
-  <text x="28" y="296" fill="#fbbf24" font-size="13" font-family="Arial, sans-serif">Quarto Crescente • 42% Iluminação</text>
+  <text x="28" y="296" fill="#f97316" font-size="13" font-family="Arial, sans-serif">Quarto Crescente • 42% Iluminação</text>
   <text x="28" y="316" fill="#f59e0b" font-size="13" font-family="Arial, sans-serif" font-weight="bold">Pesca: REGULAR ★★☆☆</text>
   <text x="28" y="334" fill="#94a3b8" font-size="12" font-family="Arial, sans-serif">Pico Maior: 15:30 - 17:30 | Menor: 21:30 - 22:30</text>
 </svg>
 `;
 
 async function run() {
-  const dest = path.join(outDir, 'square_screenshot_4_forecast.png');
-  await sharp(Buffer.from(svgSquareForecast))
-    .resize(360, 360)
-    .png()
-    .toFile(dest);
-  console.log('Gerado com sucesso:', dest);
+  const dest1 = path.join(outDir, 'square_screenshot_4_forecast.png');
+  const dest2 = path.join(outDir, 'square_screenshot_2_forecast.png');
+  const buf = await sharp(Buffer.from(svgSquareForecast)).resize(360, 360).png().toBuffer();
+  fs.writeFileSync(dest1, buf);
+  fs.writeFileSync(dest2, buf);
+  console.log('Gerado com sucesso:', dest1, dest2);
 }
 
 run().catch(console.error);
